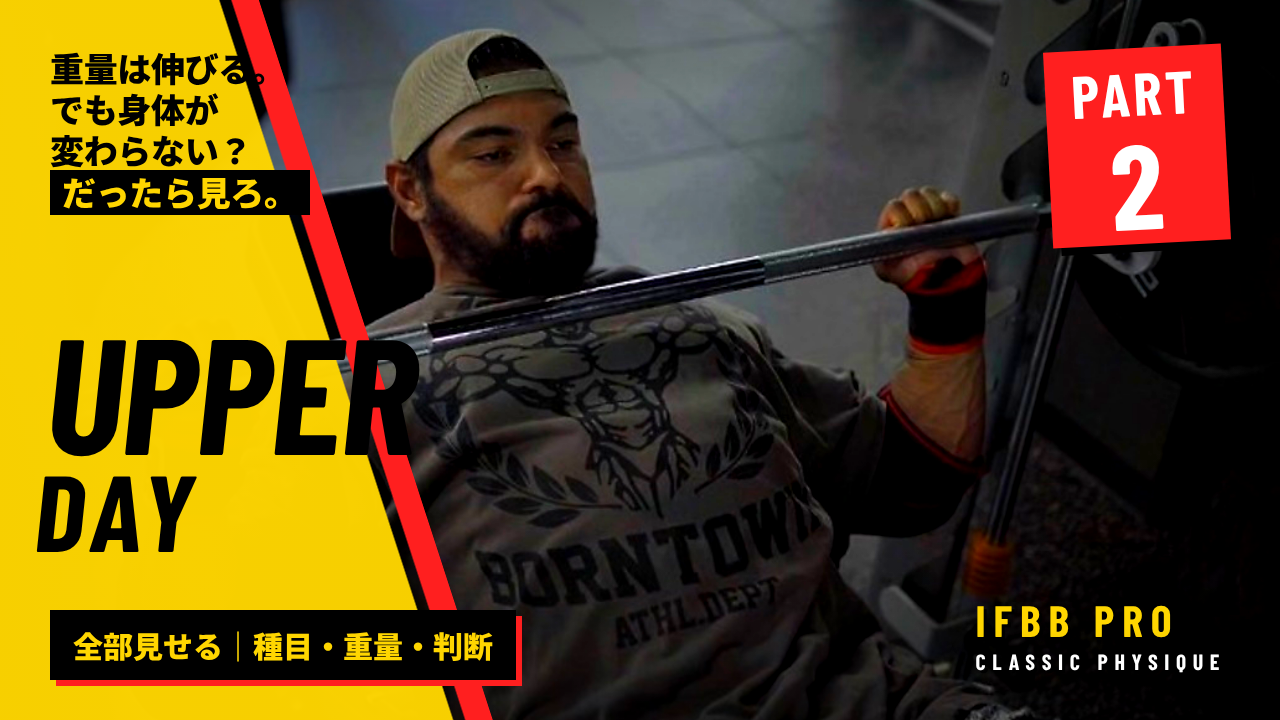
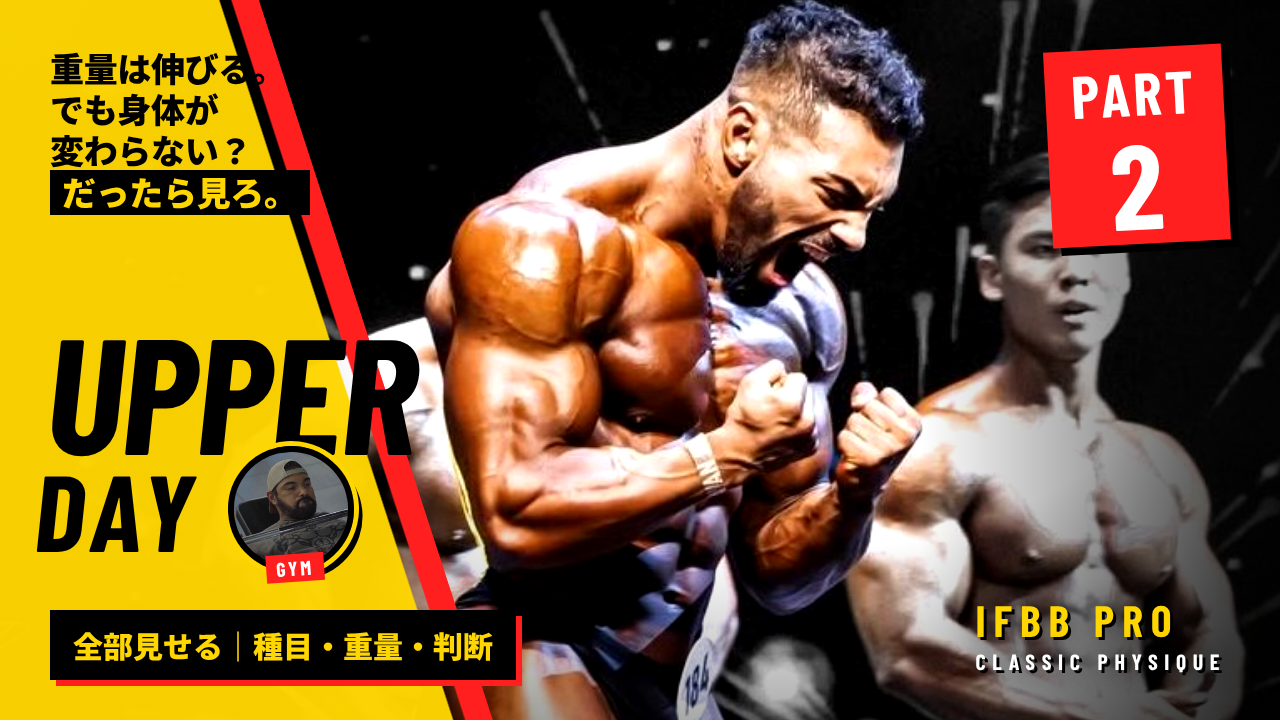
UPPER DAY thumbnails v3: competition roar photo plus gym face chip
Claude-Session: https://claude.ai/code/session_01HRty6kL8VRnpLHHHzSF3iS

diff --git a/assets/yt/thumb-template.html b/assets/yt/thumb-template.html
@@ -3,7 +3,10 @@
 @font-face{font-family:"BC";src:url("../fonts/node_modules/@fontsource/barlow-condensed/files/barlow-condensed-latin-700-normal.woff2") format("woff2");font-weight:700}
 *{margin:0;padding:0;box-sizing:border-box}html,body{width:1280px;height:720px;overflow:hidden;background:#000}
 body{font-family:"NS",sans-serif;color:#fff;position:relative}
-.bg{position:absolute;inset:0;background:url(frame.jpg) 68% 88%/auto 124% no-repeat;filter:saturate(1.35) contrast(1.25) brightness(1.05)}
+.bg{position:absolute;inset:0;background:url(roar.jpg) 44% 28%/auto 142% no-repeat;filter:saturate(1.25) contrast(1.15)}
+.dim{position:absolute;inset:0;background:linear-gradient(90deg,rgba(0,0,0,0) 72%,rgba(0,0,0,.75) 100%)}
+.face{position:absolute;left:228px;top:446px;width:126px;height:126px;border-radius:50%;background:url(facec.jpg) center/cover;border:6px solid #000;box-shadow:0 0 0 5px #ffd600,8px 8px 0 #000;transform:rotate(-4deg)}
+.face::after{content:"GYM";position:absolute;left:50%;bottom:-16px;transform:translateX(-50%);background:#ff1f1f;color:#fff;font-family:"BC",sans-serif;font-size:20px;letter-spacing:.14em;padding:2px 10px}
 .vig{position:absolute;inset:0;background:radial-gradient(80% 80% at 60% 45%,rgba(0,0,0,0) 40%,rgba(0,0,0,.7) 100%)}
 .stripe{position:absolute;left:-60px;top:0;width:620px;height:720px;background:linear-gradient(72deg,rgba(255,214,0,.97) 0 60%,rgba(255,214,0,0) 60.2%);}
 .stripe2{position:absolute;left:-60px;top:0;width:640px;height:720px;background:linear-gradient(72deg,transparent 0 60%,#ff1f1f 60.2% 63.2%,transparent 63.3%)}
@@ -17,11 +20,12 @@ body{font-family:"NS",sans-serif;color:#fff;position:relative}
 .pro small{display:block;font-size:22px;letter-spacing:.3em;color:#fff;text-align:right;margin-top:2px}
 .nocut{position:absolute;left:50px;bottom:40px;background:#000;color:#ffd600;font-size:30px;font-weight:900;padding:10px 20px;border:3px solid #000;box-shadow:6px 6px 0 #ff1f1f}
 </style></head><body>
-<div class="bg"></div><div class="vig"></div>
+<div class="bg"></div><div class="dim"></div><div class="vig"></div>
 <div class="stripe"></div><div class="stripe2"></div>
 <p class="k">重量は伸びる。<br>でも身体が<br>変わらない？<br><em>だったら見ろ。</em></p>
 <p class="h">UPPER<span>DAY</span></p>
 <div class="part">PART<b>__PART__</b></div>
 <p class="nocut">全部見せる｜種目・重量・判断</p>
+<div class="face"></div>
 <p class="pro">IFBB PRO<small>CLASSIC PHYSIQUE</small></p>
 </body></html>
